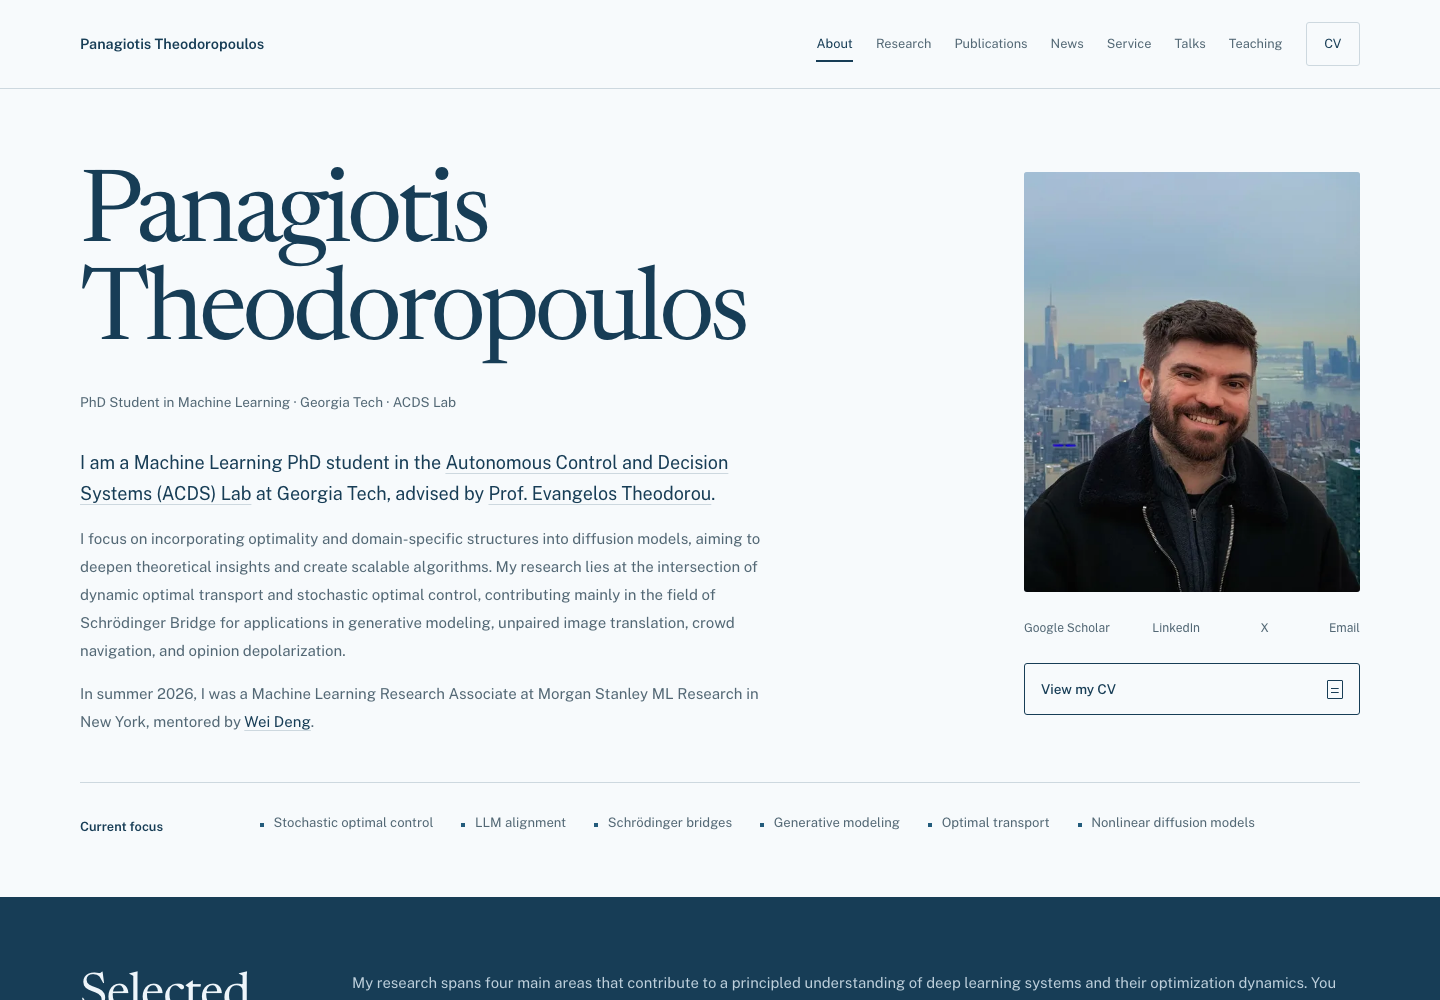
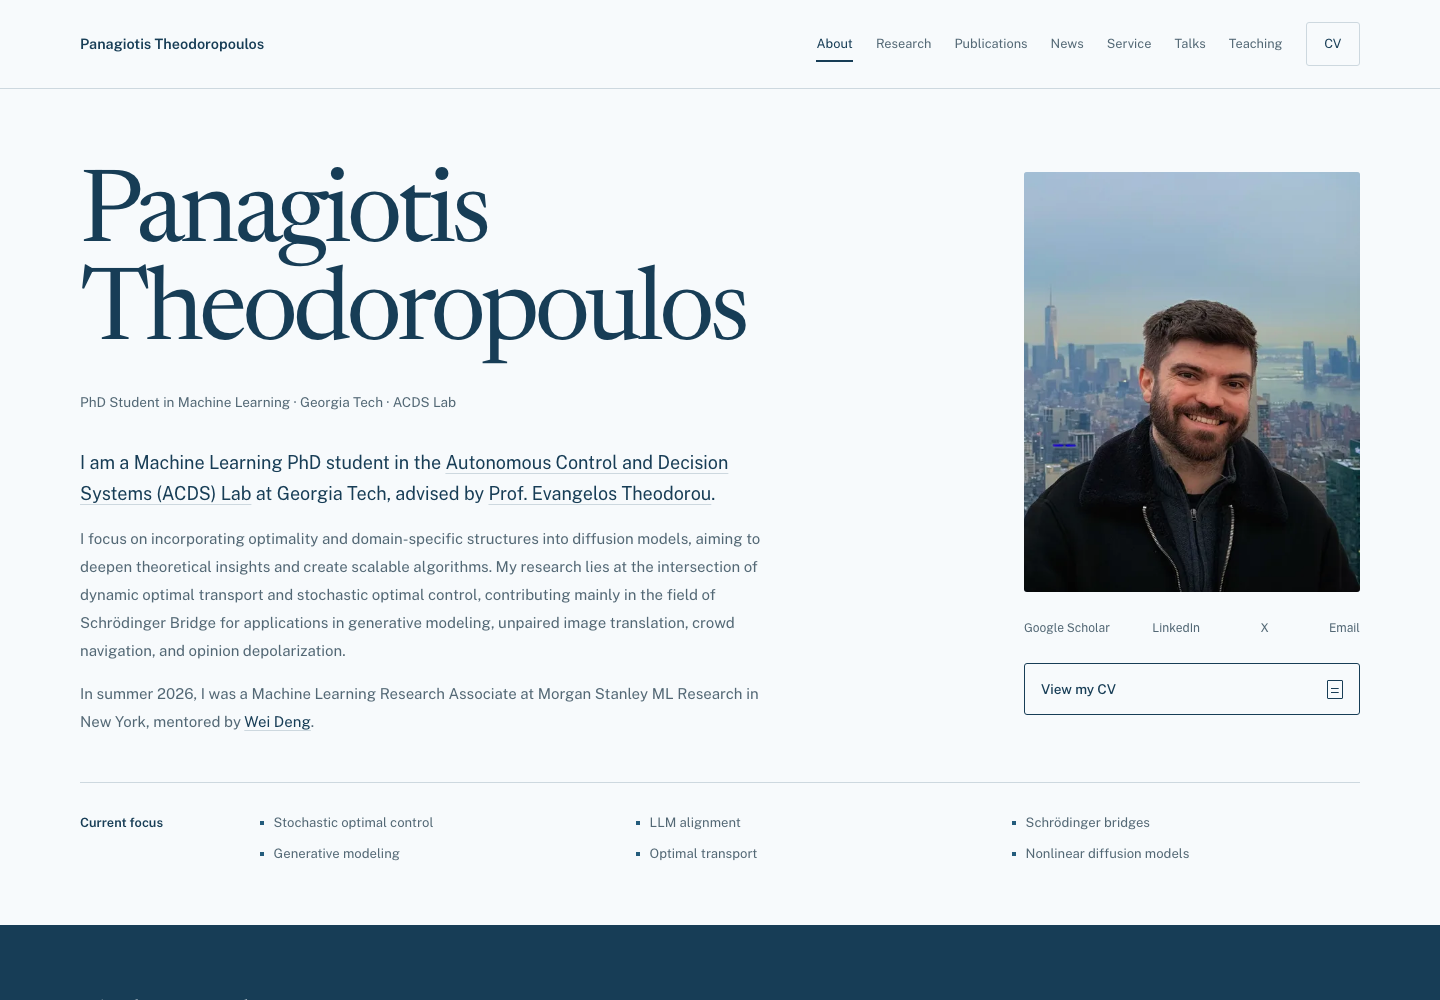
Align research focus bullets and explain oral presentations

diff --git a/tests/portfolio.spec.js b/tests/portfolio.spec.js
@@ -168,3 +168,59 @@ test('all original section destinations exist and the CV remains downloadable', 
   expect(response.headers()['content-type']).toContain('application/pdf');
   expect((await response.body()).subarray(0, 4).toString()).toBe('%PDF');
 });
+
+test('focus dots keep consistent columns when topics wrap', async ({ page }) => {
+  for (const width of [320, 390, 768, 1024, 1440]) {
+    await page.setViewportSize({ width, height: 900 });
+    await page.goto('/');
+    await page.evaluate(() => document.fonts.ready);
+    const boxes = await page.locator('.focus-list li').evaluateAll(items => items.map(item => {
+      const { x, y, width } = item.getBoundingClientRect();
+      return { x, y, width };
+    }));
+    const firstRow = boxes.filter(box => Math.abs(box.y - boxes[0].y) < 1);
+    for (const [index, box] of boxes.entries()) {
+      expect(Math.abs(box.x - firstRow[index % firstRow.length].x)).toBeLessThan(1);
+      expect(Math.abs(box.width - firstRow[index % firstRow.length].width)).toBeLessThan(1);
+    }
+  }
+});
+
+test('oral explanation supports hover, keyboard, touch and dismissal', async ({ page, isMobile, browserName }) => {
+  await page.emulateMedia({ reducedMotion: 'reduce' });
+  await page.goto('/');
+  const oral = page.getByRole('button', { name: 'Oral', exact: true });
+  const tooltip = page.getByRole('tooltip');
+  await oral.scrollIntoViewIfNeeded();
+  await expect(oral).toHaveAccessibleDescription('Selected for an oral presentation (a talk) at ICLR 2025.');
+  await expect(oral).toHaveCSS('cursor', 'help');
+  if (isMobile) {
+    await oral.tap();
+    await expect(tooltip).toBeVisible();
+    await oral.tap();
+    await expect(tooltip).toBeHidden();
+    await oral.tap();
+    await page.locator('#publications h2').tap();
+    await expect(tooltip).toBeHidden();
+  } else {
+    await oral.hover();
+    await expect(tooltip).toBeVisible();
+    await tooltip.hover();
+    await expect(tooltip).toBeVisible();
+    await page.keyboard.press('Escape');
+    await expect(tooltip).toBeHidden();
+  }
+  await page.mouse.move(0, 0);
+  await oral.focus();
+  await page.keyboard.press(browserName === 'webkit' ? 'Alt+Tab' : 'Tab');
+  await page.keyboard.press(browserName === 'webkit' ? 'Alt+Shift+Tab' : 'Shift+Tab');
+  await expect(oral).toBeFocused();
+  await expect(tooltip).toBeVisible();
+  await expect(tooltip).toBeInViewport();
+  const bounds = await tooltip.boundingBox();
+  expect(bounds.x).toBeGreaterThanOrEqual(0);
+  expect(bounds.x + bounds.width).toBeLessThanOrEqual(page.viewportSize().width);
+  await page.keyboard.press('Escape');
+  await expect(tooltip).toBeHidden();
+  await expect(oral).toBeFocused();
+});

diff --git a/assets/site.css b/assets/site.css
@@ -232,18 +232,18 @@ h1 span { display: block; }
   padding-top: 1.8rem;
   border-top: 1px solid var(--line);
 }
-.focus-label { padding-top: 0.25rem; font-size: 0.8rem; font-weight: 600; }
+.focus-label { font-size: 0.8rem; font-weight: 600; }
 .focus-list {
-  display: flex;
-  flex-wrap: wrap;
+  display: grid;
+  grid-template-columns: repeat(3, minmax(0, 1fr));
   gap: 0.55rem 1.75rem;
   padding: 0;
   list-style: none;
   color: var(--muted);
   font-size: 0.82rem;
 }
-.focus-list li { display: flex; align-items: baseline; gap: 0.6rem; }
-.focus-list li::before { width: 4px; height: 4px; flex: 0 0 auto; background: var(--accent); content: ""; }
+.focus-list li { display: grid; grid-template-columns: 4px minmax(0, 1fr); align-items: start; gap: 0.6rem; }
+.focus-list li::before { width: 4px; height: 4px; margin-top: calc(0.85em - 2px); background: var(--accent); content: ""; }
 
 .section-title {
   font-family: var(--serif);
@@ -306,6 +306,24 @@ h1 span { display: block; }
   background: var(--honor-bg);
   font-size: 0.7rem;
   font-weight: 600;
+  border: 0;
+  min-height: 1.5rem;
+  cursor: help;
+  text-decoration: underline dotted;
+  text-underline-offset: 0.2em;
+}
+.oral-tooltip {
+  position: fixed;
+  z-index: 20;
+  width: min(18rem, calc(100% - 2rem));
+  padding: 0.75rem 1rem;
+  border: 1px solid var(--line);
+  border-radius: 4px;
+  color: var(--ink);
+  background: var(--surface);
+  box-shadow: 0 4px 16px #00000018;
+  font-size: 0.82rem;
+  line-height: 1.6;
 }
 .publication h3 { font-family: var(--serif); font-size: clamp(1.65rem, 2.5vw, 2.25rem); line-height: 1.2; letter-spacing: -0.015em; }
 .publication h3 a { display: flex; align-items: baseline; justify-content: space-between; gap: 2rem; text-decoration: none; }
@@ -444,7 +462,7 @@ h1 span { display: block; }
   .hero-support { font-size: 0.94rem; line-height: 1.85; }
   .focus-block { display: block; order: 3; margin-top: 0; padding-top: 1.5rem; }
   .focus-label { margin-bottom: 0.85rem; }
-  .focus-list { gap: 0.55rem 1.1rem; font-size: 0.78rem; }
+  .focus-list { grid-template-columns: repeat(2, minmax(0, 1fr)); gap: 0.55rem 1.1rem; font-size: 0.78rem; }
   .research-section { padding-block: 3rem; }
   .research-grid { display: block; }
   .research-grid .section-header { margin-bottom: 1.5rem; }
@@ -485,6 +503,7 @@ h1 span { display: block; }
   .hero-media { gap: 0 1rem; }
   .hero-social a { min-height: 2.5rem; }
   .site-title span { max-width: 9rem; }
+  .focus-list { grid-template-columns: minmax(0, 1fr); }
 }
 
 @media (prefers-color-scheme: dark) {

diff --git a/dist/client/assets/site.css b/dist/client/assets/site.css
@@ -232,18 +232,18 @@ h1 span { display: block; }
   padding-top: 1.8rem;
   border-top: 1px solid var(--line);
 }
-.focus-label { padding-top: 0.25rem; font-size: 0.8rem; font-weight: 600; }
+.focus-label { font-size: 0.8rem; font-weight: 600; }
 .focus-list {
-  display: flex;
-  flex-wrap: wrap;
+  display: grid;
+  grid-template-columns: repeat(3, minmax(0, 1fr));
   gap: 0.55rem 1.75rem;
   padding: 0;
   list-style: none;
   color: var(--muted);
   font-size: 0.82rem;
 }
-.focus-list li { display: flex; align-items: baseline; gap: 0.6rem; }
-.focus-list li::before { width: 4px; height: 4px; flex: 0 0 auto; background: var(--accent); content: ""; }
+.focus-list li { display: grid; grid-template-columns: 4px minmax(0, 1fr); align-items: start; gap: 0.6rem; }
+.focus-list li::before { width: 4px; height: 4px; margin-top: calc(0.85em - 2px); background: var(--accent); content: ""; }
 
 .section-title {
   font-family: var(--serif);
@@ -306,6 +306,24 @@ h1 span { display: block; }
   background: var(--honor-bg);
   font-size: 0.7rem;
   font-weight: 600;
+  border: 0;
+  min-height: 1.5rem;
+  cursor: help;
+  text-decoration: underline dotted;
+  text-underline-offset: 0.2em;
+}
+.oral-tooltip {
+  position: fixed;
+  z-index: 20;
+  width: min(18rem, calc(100% - 2rem));
+  padding: 0.75rem 1rem;
+  border: 1px solid var(--line);
+  border-radius: 4px;
+  color: var(--ink);
+  background: var(--surface);
+  box-shadow: 0 4px 16px #00000018;
+  font-size: 0.82rem;
+  line-height: 1.6;
 }
 .publication h3 { font-family: var(--serif); font-size: clamp(1.65rem, 2.5vw, 2.25rem); line-height: 1.2; letter-spacing: -0.015em; }
 .publication h3 a { display: flex; align-items: baseline; justify-content: space-between; gap: 2rem; text-decoration: none; }
@@ -444,7 +462,7 @@ h1 span { display: block; }
   .hero-support { font-size: 0.94rem; line-height: 1.85; }
   .focus-block { display: block; order: 3; margin-top: 0; padding-top: 1.5rem; }
   .focus-label { margin-bottom: 0.85rem; }
-  .focus-list { gap: 0.55rem 1.1rem; font-size: 0.78rem; }
+  .focus-list { grid-template-columns: repeat(2, minmax(0, 1fr)); gap: 0.55rem 1.1rem; font-size: 0.78rem; }
   .research-section { padding-block: 3rem; }
   .research-grid { display: block; }
   .research-grid .section-header { margin-bottom: 1.5rem; }
@@ -485,6 +503,7 @@ h1 span { display: block; }
   .hero-media { gap: 0 1rem; }
   .hero-social a { min-height: 2.5rem; }
   .site-title span { max-width: 9rem; }
+  .focus-list { grid-template-columns: minmax(0, 1fr); }
 }
 
 @media (prefers-color-scheme: dark) {

diff --git a/assets/site.js b/assets/site.js
@@ -39,4 +39,63 @@
   window.addEventListener('pageshow', scheduleUpdate);
   window.addEventListener('hashchange', scheduleUpdate);
   updateCurrentSection();
+
+  const oral = document.querySelector('.oral-badge');
+  const explanation = document.getElementById('oral-explanation');
+  let closeTimer;
+
+  function hideExplanation() {
+    clearTimeout(closeTimer);
+    explanation.hidden = true;
+  }
+
+  function positionExplanation() {
+    const trigger = oral.getBoundingClientRect();
+    const box = explanation.getBoundingClientRect();
+    const left = Math.max(16, Math.min(trigger.left, innerWidth - box.width - 16));
+    const top = trigger.bottom + 8 + box.height <= innerHeight - 16
+      ? trigger.bottom + 8 : Math.max(16, trigger.top - box.height - 8);
+    explanation.style.left = `${left}px`;
+    explanation.style.top = `${top}px`;
+  }
+
+  function showExplanation() {
+    clearTimeout(closeTimer);
+    explanation.hidden = false;
+    positionExplanation();
+  }
+
+  function closeWhenIdle() {
+    clearTimeout(closeTimer);
+    closeTimer = setTimeout(() => {
+      if (!oral.matches(':hover, :focus-visible') && !explanation.matches(':hover')) hideExplanation();
+    }, 150);
+  }
+
+  // The title remains a native hover fallback when JavaScript is unavailable.
+  oral.removeAttribute('title');
+  oral.addEventListener('pointerenter', event => {
+    if (event.pointerType !== 'touch') showExplanation();
+  });
+  oral.addEventListener('pointerleave', closeWhenIdle);
+  oral.addEventListener('focus', () => {
+    if (oral.matches(':focus-visible')) showExplanation();
+  });
+  oral.addEventListener('blur', closeWhenIdle);
+  oral.addEventListener('click', () => explanation.hidden ? showExplanation() : hideExplanation());
+  explanation.addEventListener('pointerenter', () => clearTimeout(closeTimer));
+  explanation.addEventListener('pointerleave', closeWhenIdle);
+  document.addEventListener('keydown', event => {
+    if (event.key === 'Escape') hideExplanation();
+  });
+  document.addEventListener('pointerdown', event => {
+    if (!oral.contains(event.target) && !explanation.contains(event.target)) hideExplanation();
+  });
+  window.addEventListener('scroll', () => {
+    if (explanation.hidden) return;
+    const trigger = oral.getBoundingClientRect();
+    if (trigger.bottom < header.offsetHeight || trigger.top > innerHeight) hideExplanation();
+    else positionExplanation();
+  }, { passive: true });
+  window.addEventListener('resize', hideExplanation);
 })();

diff --git a/dist/client/assets/site.js b/dist/client/assets/site.js
@@ -39,4 +39,63 @@
   window.addEventListener('pageshow', scheduleUpdate);
   window.addEventListener('hashchange', scheduleUpdate);
   updateCurrentSection();
+
+  const oral = document.querySelector('.oral-badge');
+  const explanation = document.getElementById('oral-explanation');
+  let closeTimer;
+
+  function hideExplanation() {
+    clearTimeout(closeTimer);
+    explanation.hidden = true;
+  }
+
+  function positionExplanation() {
+    const trigger = oral.getBoundingClientRect();
+    const box = explanation.getBoundingClientRect();
+    const left = Math.max(16, Math.min(trigger.left, innerWidth - box.width - 16));
+    const top = trigger.bottom + 8 + box.height <= innerHeight - 16
+      ? trigger.bottom + 8 : Math.max(16, trigger.top - box.height - 8);
+    explanation.style.left = `${left}px`;
+    explanation.style.top = `${top}px`;
+  }
+
+  function showExplanation() {
+    clearTimeout(closeTimer);
+    explanation.hidden = false;
+    positionExplanation();
+  }
+
+  function closeWhenIdle() {
+    clearTimeout(closeTimer);
+    closeTimer = setTimeout(() => {
+      if (!oral.matches(':hover, :focus-visible') && !explanation.matches(':hover')) hideExplanation();
+    }, 150);
+  }
+
+  // The title remains a native hover fallback when JavaScript is unavailable.
+  oral.removeAttribute('title');
+  oral.addEventListener('pointerenter', event => {
+    if (event.pointerType !== 'touch') showExplanation();
+  });
+  oral.addEventListener('pointerleave', closeWhenIdle);
+  oral.addEventListener('focus', () => {
+    if (oral.matches(':focus-visible')) showExplanation();
+  });
+  oral.addEventListener('blur', closeWhenIdle);
+  oral.addEventListener('click', () => explanation.hidden ? showExplanation() : hideExplanation());
+  explanation.addEventListener('pointerenter', () => clearTimeout(closeTimer));
+  explanation.addEventListener('pointerleave', closeWhenIdle);
+  document.addEventListener('keydown', event => {
+    if (event.key === 'Escape') hideExplanation();
+  });
+  document.addEventListener('pointerdown', event => {
+    if (!oral.contains(event.target) && !explanation.contains(event.target)) hideExplanation();
+  });
+  window.addEventListener('scroll', () => {
+    if (explanation.hidden) return;
+    const trigger = oral.getBoundingClientRect();
+    if (trigger.bottom < header.offsetHeight || trigger.top > innerHeight) hideExplanation();
+    else positionExplanation();
+  }, { passive: true });
+  window.addEventListener('resize', hideExplanation);
 })();

diff --git a/dist/client/index.html b/dist/client/index.html
@@ -333,7 +333,7 @@
           </article>
 
           <article class="publication">
-            <p class="publication-venue">ICLR 2025 <span class="oral-badge">Oral</span></p>
+            <p class="publication-venue">ICLR 2025 <button class="oral-badge" type="button" aria-describedby="oral-explanation" title="Selected for an oral presentation (a talk) at ICLR 2025.">Oral</button></p>
             <h3><a href="https://arxiv.org/abs/2410.14055" target="_blank" rel="noopener noreferrer">Feedback Schrödinger Bridge Matching</a></h3>
             <p><strong>Panagiotis Theodoropoulos</strong>, Nikolaos Komianos, Vincent Pacelli, Guan-Horng Liu, and Evangelos A. Theodorou.</p>
           </article>
@@ -436,5 +436,6 @@
     </div>
   </footer>
 
+  <div id="oral-explanation" class="oral-tooltip" role="tooltip" hidden>Selected for an oral presentation (a talk) at ICLR 2025.</div>
 </body>
 </html>

diff --git a/index.html b/index.html
@@ -333,7 +333,7 @@
           </article>
 
           <article class="publication">
-            <p class="publication-venue">ICLR 2025 <span class="oral-badge">Oral</span></p>
+            <p class="publication-venue">ICLR 2025 <button class="oral-badge" type="button" aria-describedby="oral-explanation" title="Selected for an oral presentation (a talk) at ICLR 2025.">Oral</button></p>
             <h3><a href="https://arxiv.org/abs/2410.14055" target="_blank" rel="noopener noreferrer">Feedback Schrödinger Bridge Matching</a></h3>
             <p><strong>Panagiotis Theodoropoulos</strong>, Nikolaos Komianos, Vincent Pacelli, Guan-Horng Liu, and Evangelos A. Theodorou.</p>
           </article>
@@ -436,5 +436,6 @@
     </div>
   </footer>
 
+  <div id="oral-explanation" class="oral-tooltip" role="tooltip" hidden>Selected for an oral presentation (a talk) at ICLR 2025.</div>
 </body>
 </html>

diff --git a/README.md b/README.md
@@ -52,9 +52,9 @@ npx playwright install chromium webkit
 npm test
 ```
 
-The 33 Playwright checks cover desktop Chromium, mobile Chromium and iPhone WebKit emulation. They verify content preservation, metadata, original asset hashes, resource loading, anchor destinations, current navigation state, keyboard focus, menu dismissal, and the CV download. Discovery checks compare structured data with visible publications, verify social image dimensions, and follow the sitemap to working resources with JavaScript disabled. Axe checks cover light and dark modes, including the expanded mobile menu.
+The 39 Playwright checks cover desktop Chromium, mobile Chromium and iPhone WebKit emulation. They verify content preservation, metadata, original asset hashes, resource loading, anchor destinations, current navigation state, keyboard focus, menu dismissal, and the CV download. Discovery checks compare structured data with visible publications, verify social image dimensions, and follow the sitemap to working resources with JavaScript disabled. Axe checks cover light and dark modes, including the expanded mobile menu.
 
-Reflow checks cover widths from 320 to 1920 pixels and doubled text size. The site also works with JavaScript disabled and web fonts blocked. Motion respects the system preference. Desktop, tablet, mobile, dark mode and mobile navigation were visually inspected; the browser's accessibility tree exposes the menu name and expanded state.
+Focus-grid checks verify column alignment when terms wrap. The Oral badge explains the presentation format on hover, keyboard focus or tap; Escape and outside taps dismiss it. Interaction checks cover Chromium and WebKit. Reflow checks cover widths from 320 to 1920 pixels and doubled text size. The site also works with JavaScript disabled and web fonts blocked. Motion respects the system preference. Desktop, tablet, mobile, dark mode and mobile navigation were visually inspected; the browser's accessibility tree exposes the menu name and expanded state.
 
 Local Lighthouse 13.5.0 audits on 14 October 2026, before the search metadata and discovery files were added:
 
@@ -69,4 +69,4 @@ Local Lighthouse 13.5.0 audits on 14 October 2026, before the search metadata an
 
 These are local lab measurements, not production field results. No actionable accessibility findings remain in the inspected coverage. Physical-device testing and a spoken VoiceOver/NVDA session were not performed. External destinations are preserved exactly; third-party site availability is outside this change.
 
-Screenshots: [desktop](review/desktop.png), [mobile](review/mobile.png), [tablet](review/tablet.png), [dark mode](review/dark.png), [mobile menu](review/mobile-menu.png). Machine-readable results are in [verification.json](review/verification.json).
+Screenshots: [desktop](review/desktop.png), [mobile](review/mobile.png), [tablet](review/tablet.png), [dark mode](review/dark.png), [mobile menu](review/mobile-menu.png), [oral explanation](review/oral-tooltip.png). Machine-readable results are in [verification.json](review/verification.json).
